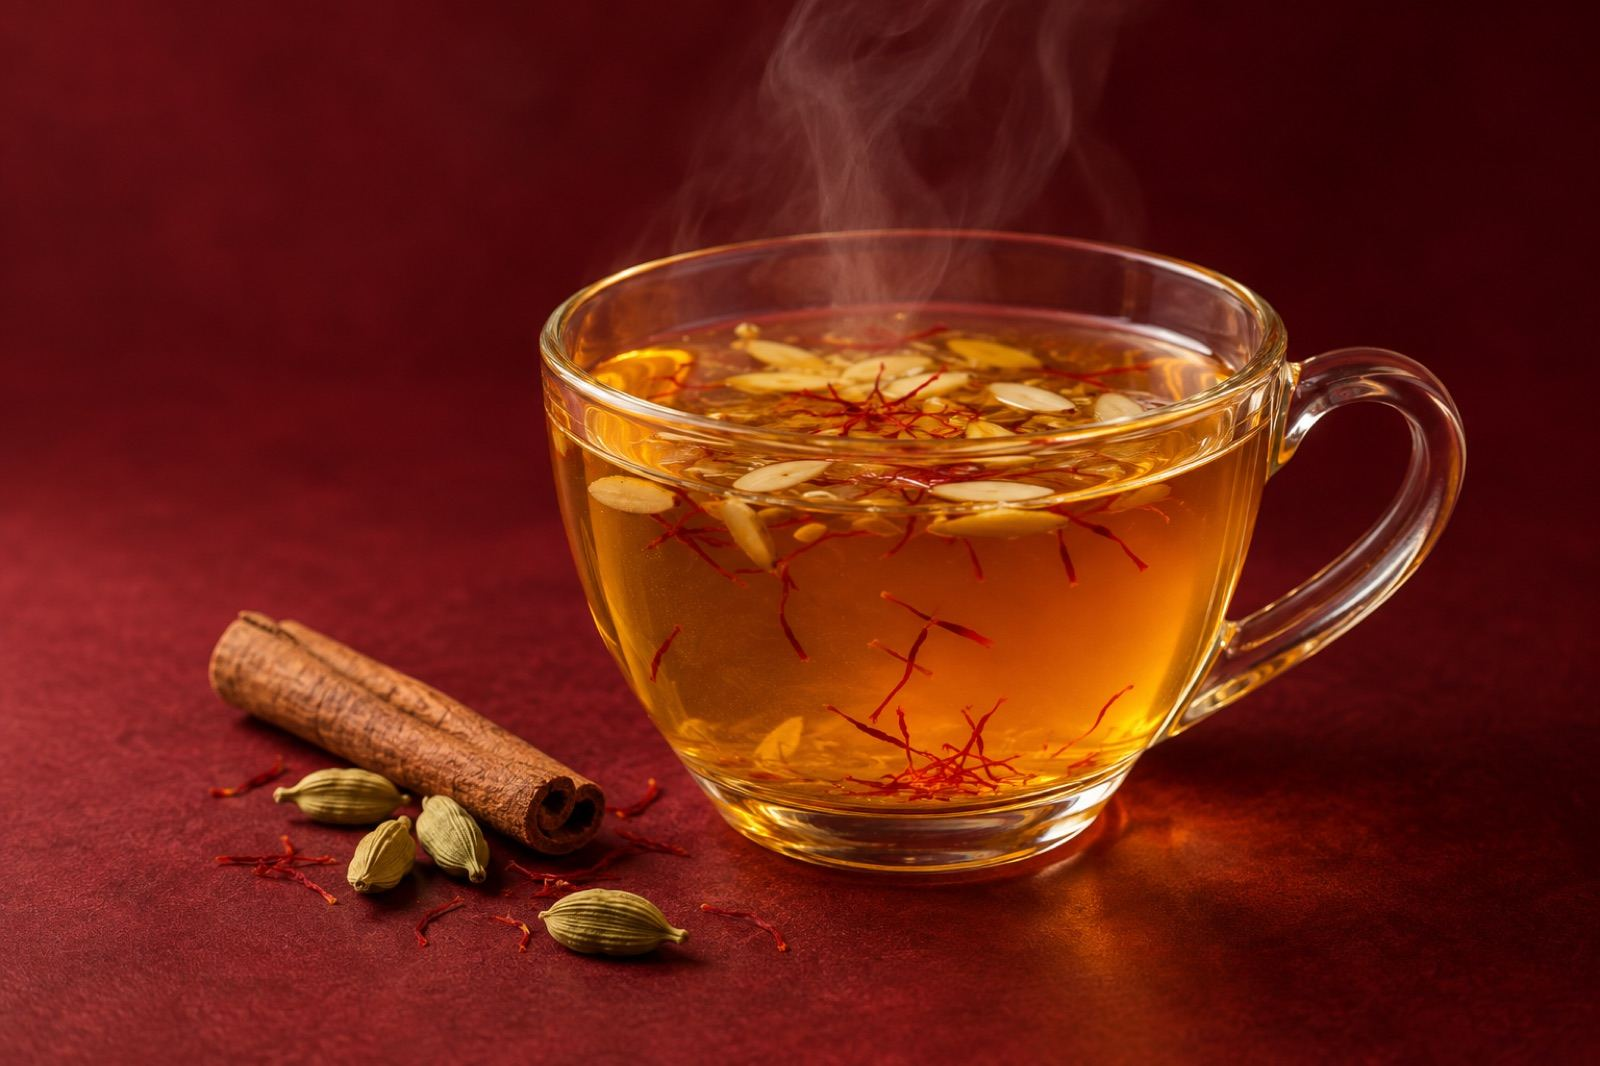
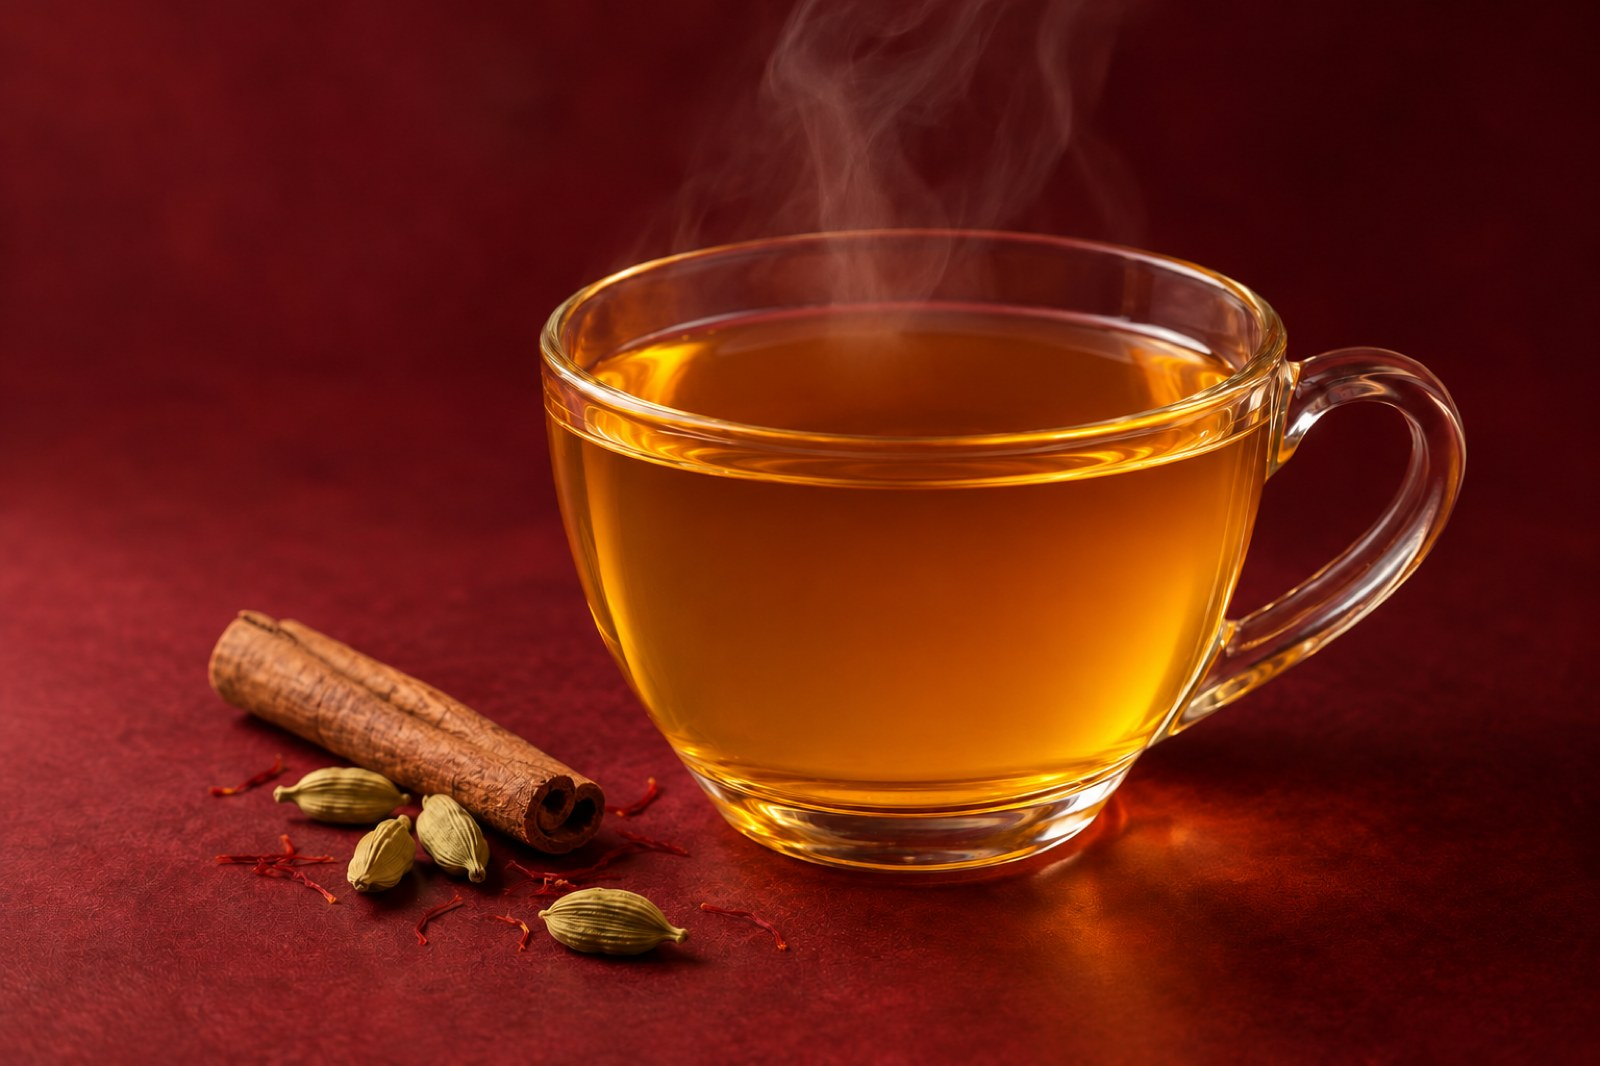
Straightforward 6: hide 40+ section, clear kahwa

diff --git a/straightforward-6/about.html b/straightforward-6/about.html
@@ -12,7 +12,7 @@
 <link rel="preconnect" href="https://fonts.googleapis.com">
 <link rel="preconnect" href="https://fonts.gstatic.com" crossorigin>
 <link href="https://fonts.googleapis.com/css2?family=Fraunces:opsz,wght,SOFT@9..144,500..800,100&family=DM+Sans:opsz,wght@9..40,400..700&family=Caveat:wght@600;700&display=swap" rel="stylesheet">
-<link rel="stylesheet" href="assets/style.css?v=1795523708">
+<link rel="stylesheet" href="assets/style.css?v=1795604027">
 <script>document.documentElement.classList.add('js')</script>
 <script src="assets/logo.js"></script>
 </head>
@@ -148,8 +148,8 @@
     </div>
   </div>
 </section>
-<svg class="wave " viewBox="0 0 1440 60" preserveAspectRatio="none" aria-hidden="true"><path d="M0 30c120-26 240-26 360 0s240 26 360 0 240-26 360 0 240 26 360 0v30H0z" fill="var(--brown)"/></svg>
-<section class="how ab-roots">
+<svg hidden class="wave " viewBox="0 0 1440 60" preserveAspectRatio="none" aria-hidden="true"><path d="M0 30c120-26 240-26 360 0s240 26 360 0 240-26 360 0 240 26 360 0v30H0z" fill="var(--brown)"/></svg>
+<section hidden class="how ab-roots">
   <div class="wrap roots">
     <div class="roots-big"><span class="big-num">40+</span><span>years of Shiv Group in Indian industry</span></div>
     <div class="roots-big"><span class="big-num">20+</span><span>years working with soya</span></div>
@@ -161,7 +161,7 @@
     </div>
   </div>
 </section>
-<svg class="wave flip" viewBox="0 0 1440 60" preserveAspectRatio="none" aria-hidden="true"><path d="M0 30c120-26 240-26 360 0s240 26 360 0 240-26 360 0 240 26 360 0v30H0z" fill="var(--brown)"/></svg>
+<svg hidden class="wave flip" viewBox="0 0 1440 60" preserveAspectRatio="none" aria-hidden="true"><path d="M0 30c120-26 240-26 360 0s240 26 360 0 240-26 360 0 240 26 360 0v30H0z" fill="var(--brown)"/></svg>
 <section class="ab-promise">
   <div class="wrap promise">
     <p class="hand kicker">our promise</p>
@@ -192,7 +192,7 @@
   </div>
 </footer>
 
-<script src="assets/chrome.js?v=1795523708"></script>
-<script src="assets/main.js?v=1795523708"></script>
+<script src="assets/chrome.js?v=1795604027"></script>
+<script src="assets/main.js?v=1795604027"></script>
 </body>
 </html>

diff --git a/straightforward-6/contact.html b/straightforward-6/contact.html
@@ -12,7 +12,7 @@
 <link rel="preconnect" href="https://fonts.googleapis.com">
 <link rel="preconnect" href="https://fonts.gstatic.com" crossorigin>
 <link href="https://fonts.googleapis.com/css2?family=Fraunces:opsz,wght,SOFT@9..144,500..800,100&family=DM+Sans:opsz,wght@9..40,400..700&family=Caveat:wght@600;700&display=swap" rel="stylesheet">
-<link rel="stylesheet" href="assets/style.css?v=1795523708">
+<link rel="stylesheet" href="assets/style.css?v=1795604027">
 <script>document.documentElement.classList.add('js')</script>
 <script src="assets/logo.js"></script>
 </head>
@@ -155,7 +155,7 @@
   </div>
 </footer>
 
-<script src="assets/chrome.js?v=1795523708"></script>
-<script src="assets/main.js?v=1795523708"></script>
+<script src="assets/chrome.js?v=1795604027"></script>
+<script src="assets/main.js?v=1795604027"></script>
 </body>
 </html>

diff --git a/straightforward-6/index.html b/straightforward-6/index.html
@@ -12,7 +12,7 @@
 <link rel="preconnect" href="https://fonts.googleapis.com">
 <link rel="preconnect" href="https://fonts.gstatic.com" crossorigin>
 <link href="https://fonts.googleapis.com/css2?family=Fraunces:opsz,wght,SOFT@9..144,500..800,100&family=DM+Sans:opsz,wght@9..40,400..700&family=Caveat:wght@600;700&display=swap" rel="stylesheet">
-<link rel="stylesheet" href="assets/style.css?v=1795523708">
+<link rel="stylesheet" href="assets/style.css?v=1795604027">
 <script>document.documentElement.classList.add('js')</script>
 <script src="assets/logo.js"></script>
 </head>
@@ -332,7 +332,7 @@
   </div>
 </footer>
 
-<script src="assets/chrome.js?v=1795523708"></script>
-<script src="assets/main.js?v=1795523708"></script>
+<script src="assets/chrome.js?v=1795604027"></script>
+<script src="assets/main.js?v=1795604027"></script>
 </body>
 </html>

diff --git a/straightforward-6/privacy.html b/straightforward-6/privacy.html
@@ -12,7 +12,7 @@
 <link rel="preconnect" href="https://fonts.googleapis.com">
 <link rel="preconnect" href="https://fonts.gstatic.com" crossorigin>
 <link href="https://fonts.googleapis.com/css2?family=Fraunces:opsz,wght,SOFT@9..144,500..800,100&family=DM+Sans:opsz,wght@9..40,400..700&family=Caveat:wght@600;700&display=swap" rel="stylesheet">
-<link rel="stylesheet" href="assets/style.css?v=1795523708">
+<link rel="stylesheet" href="assets/style.css?v=1795604027">
 <script>document.documentElement.classList.add('js')</script>
 <script src="assets/logo.js"></script>
 </head>
@@ -162,7 +162,7 @@
   </div>
 </footer>
 
-<script src="assets/chrome.js?v=1795523708"></script>
-<script src="assets/main.js?v=1795523708"></script>
+<script src="assets/chrome.js?v=1795604027"></script>
+<script src="assets/main.js?v=1795604027"></script>
 </body>
 </html>

diff --git a/straightforward-6/product.html b/straightforward-6/product.html
@@ -12,7 +12,7 @@
 <link rel="preconnect" href="https://fonts.googleapis.com">
 <link rel="preconnect" href="https://fonts.gstatic.com" crossorigin>
 <link href="https://fonts.googleapis.com/css2?family=Fraunces:opsz,wght,SOFT@9..144,500..800,100&family=DM+Sans:opsz,wght@9..40,400..700&family=Caveat:wght@600;700&display=swap" rel="stylesheet">
-<link rel="stylesheet" href="assets/style.css?v=1795523708">
+<link rel="stylesheet" href="assets/style.css?v=1795604027">
 <script>document.documentElement.classList.add('js')</script>
 <script src="assets/logo.js"></script>
 </head>
@@ -122,7 +122,7 @@
   </div>
 </footer>
 
-<script src="assets/chrome.js?v=1795523708"></script>
-<script src="assets/main.js?v=1795523708"></script>
+<script src="assets/chrome.js?v=1795604027"></script>
+<script src="assets/main.js?v=1795604027"></script>
 </body>
 </html>

diff --git a/straightforward-6/products.html b/straightforward-6/products.html
@@ -12,7 +12,7 @@
 <link rel="preconnect" href="https://fonts.googleapis.com">
 <link rel="preconnect" href="https://fonts.gstatic.com" crossorigin>
 <link href="https://fonts.googleapis.com/css2?family=Fraunces:opsz,wght,SOFT@9..144,500..800,100&family=DM+Sans:opsz,wght@9..40,400..700&family=Caveat:wght@600;700&display=swap" rel="stylesheet">
-<link rel="stylesheet" href="assets/style.css?v=1795523708">
+<link rel="stylesheet" href="assets/style.css?v=1795604027">
 <script>document.documentElement.classList.add('js')</script>
 <script src="assets/logo.js"></script>
 </head>
@@ -189,7 +189,7 @@
   </div>
 </footer>
 
-<script src="assets/chrome.js?v=1795523708"></script>
-<script src="assets/main.js?v=1795523708"></script>
+<script src="assets/chrome.js?v=1795604027"></script>
+<script src="assets/main.js?v=1795604027"></script>
 </body>
 </html>
